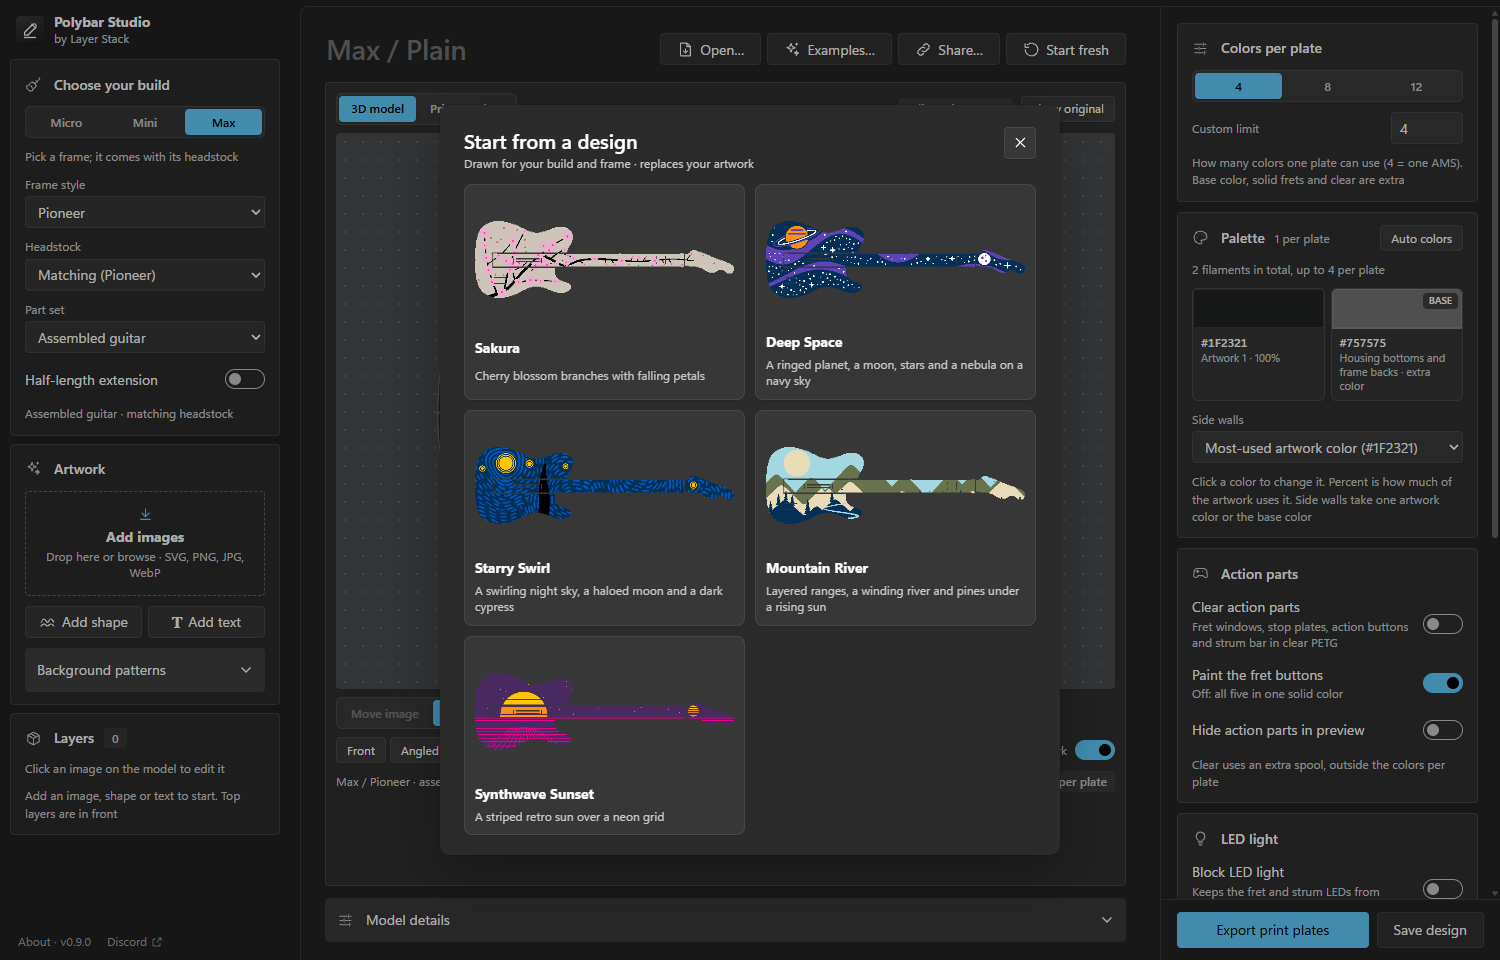
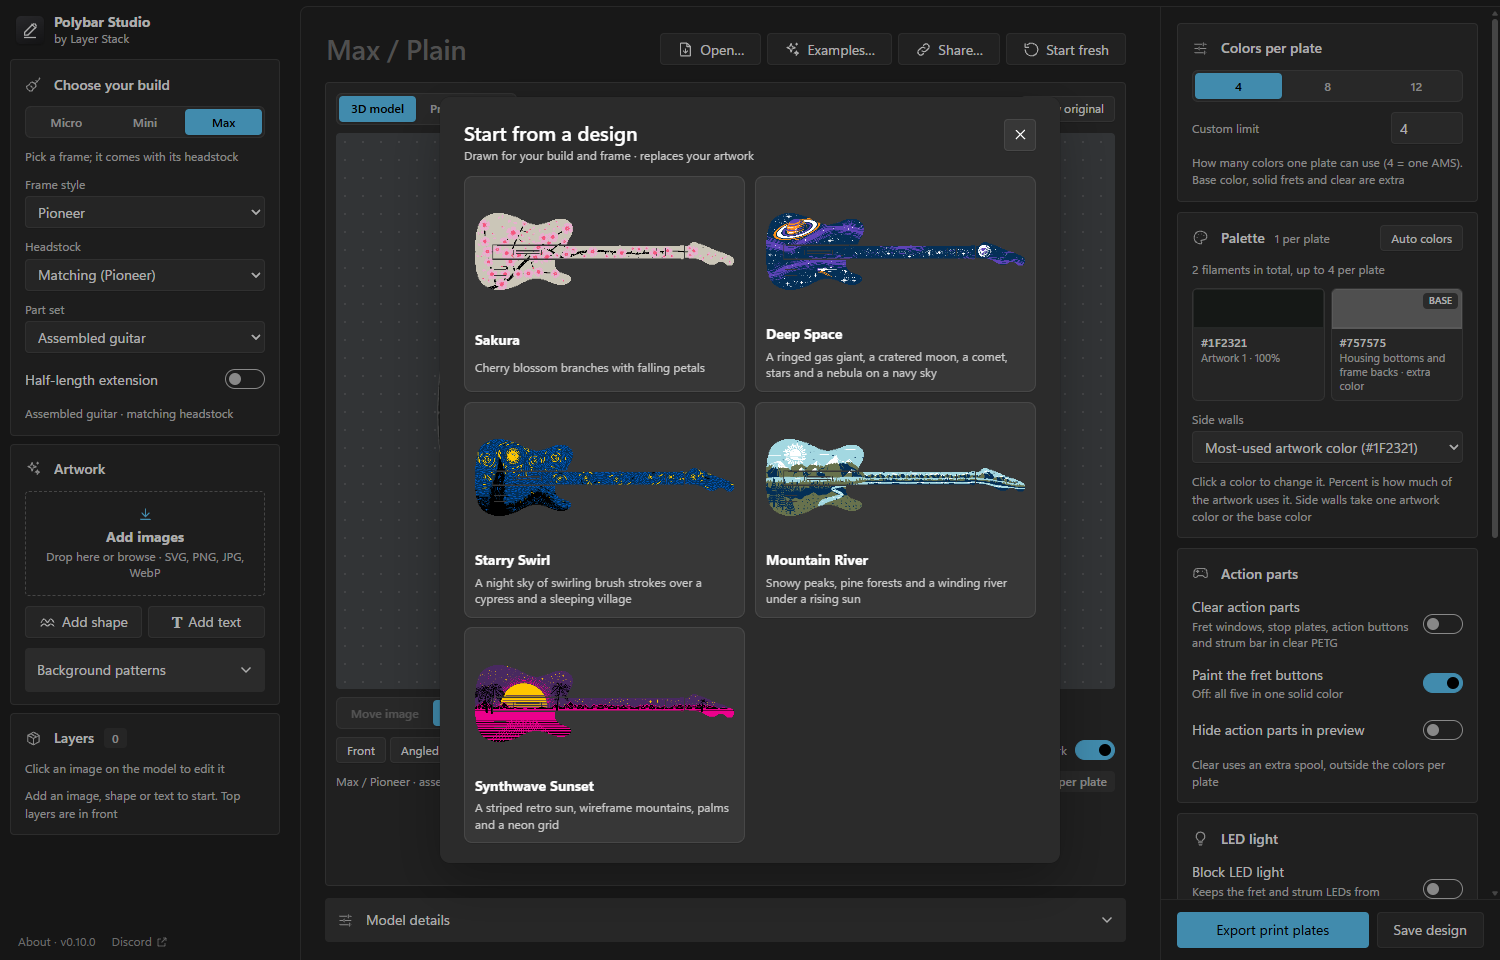
0.10.0: README (examples follow your build, detailed examples), Examples screenshot

diff --git a/README.md b/README.md
@@ -2,7 +2,7 @@
 
 Paint your Polybar Micro, Mini or Max, then get a print-ready Bambu Studio project for your Bambu Lab printer.
 
-[![Download for Windows](https://img.shields.io/badge/Download_for_Windows-Polybar_Studio_0.9.0-0078D4?style=for-the-badge&logo=windows)](https://github.com/3D-Printed-Controller-Systems/Polybar-Studio-Release/releases/latest/download/Polybar-Studio-Windows.exe)
+[![Download for Windows](https://img.shields.io/badge/Download_for_Windows-Polybar_Studio_0.10.0-0078D4?style=for-the-badge&logo=windows)](https://github.com/3D-Printed-Controller-Systems/Polybar-Studio-Release/releases/latest/download/Polybar-Studio-Windows.exe)
 
 Windows 10 or 11, 64-bit · about 50 MB · works offline · [all releases](https://github.com/3D-Printed-Controller-Systems/Polybar-Studio-Release/releases) · share your designs in the [Polybar Discord](https://discord.gg/wBRdgxEGhe)
 
@@ -37,7 +37,9 @@ Drag in the preview to rotate, scroll to zoom (it zooms toward the mouse pointer
 
 ### 2. Add your artwork
 
-- **Start from an example:** click **Examples…** (above the preview) for Sakura, Deep Space, Starry Swirl, Mountain River or Synthwave Sunset. Each one is drawn for the build and frame you chose (Mini or Max), with its main pieces on the body and headstock, in four Bambu spool colors and with every line wide enough to print. It replaces your artwork; everything else stays. Change any of its four layers or colors afterwards.
+- **Start from an example:** click **Examples…** (above the preview) for Sakura, Deep Space, Starry Swirl, Mountain River or Synthwave Sunset. Each one is drawn for the build and frame you chose (Mini or Max), with its main pieces on the body and headstock, in four Bambu spool colors. It replaces your artwork; everything else stays. Change any of its four layers or colors afterwards.
+  - **It follows your build:** change the size, frame, headstock or half-length extension and the example is drawn again for the new shape by itself. Colors you changed on its layers stay. A saved design remembers its example, so it keeps doing this when you open it again.
+  - **Detail:** the examples are drawn with fine detail (lines down to 0.8 mm), so they print best with a 0.4 mm nozzle. On a 0.6 mm nozzle the app thickens the finest lines, as it does for any artwork.
 
 <picture>
   <source media="(prefers-color-scheme: dark)" srcset=".github/assets/examples-dark.png">
@@ -144,6 +146,8 @@ In the slicer, pick your actual filament profiles, check that each color goes to
 ## Releases
 
 Each release lists the installer's SHA-256 and the [Development](https://github.com/3D-Printed-Controller-Systems/Polybar-Studio-Development) commit it was built from.
+
+**0.10.0**: the examples are redrawn in fine detail (Sakura's notched petals, stamens and cherry bark; a ringed gas giant, comet and galaxy; brush-stroke skies and a village; snow-capped mountains, pines and a river; palms and wireframe mountains), and an example now redraws itself when you change the size, frame or headstock.
 
 **0.9.0**: based on the team's changelog: **Examples…** (five designs drawn for your Mini or Max build); unpainted frets start in your artwork's color instead of black; fret chips take the color covering most of them (a chip could turn black when you added a headstock); a progress bar with the time left while exporting; new plates (fret windows alone, a Small Parts plate, fret inserts with the clear parts); slim tree supports on the strum bar.
 
